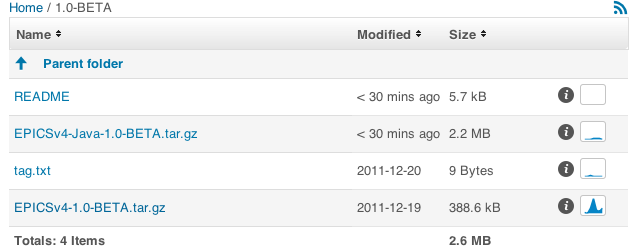
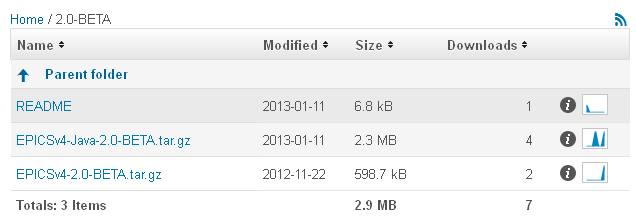
Brought getting_started, gettingStarte_20130118.html up-to-date with Beta 2. index.html now references C++ services.

diff --git a/mainPage/gettingStarted.html b/mainPage/gettingStarted.html
@@ -58,12 +58,15 @@ included.</p>
 
 <h2 class="nocount" id="status">Status of this Document</h2>
 
-<p>This is the 18-Jan-2013 version of the Getting Started with EPICS V4. This version adds examples of C++ services.
-This version is up to date with respect to the BETA 1.0 release, including the 1.0.1-BETA Java tar file, and also with development from
+<p>This is the 18-Jan-2013 version of the Getting Started with EPICS V4. This version adds examples of C++ services and
+in addition has been brought up-to-date with respect to the BETA 2.0 release
+ and reflects changes in the organization of the EPICS V4 modules prior to this release. This version is up-to-date with respect to the BETA 2.0 release and with development from
 the Mercurial tips.</p>
 
-<p>The next version should include: section after step-by-step like "going further"
-which points to existing documentation of the EPICS V4 core modules.
+<p> NOTE: Subsequent to the release of BETA 2.0, development on pvIOCCPP ceased and V3Channel will be moved to its own
+module, pvaSrv. </p>
+
+<p>The next version should include: new instructions updated for the move of V3Channel to pvaSrv.
 </p>
 
 <div id="toc">
@@ -110,11 +113,11 @@ go further than this Getting Started guide. </p>
   <th>Module</th><th>SourceForge Hg repo for Java</th><th>Java jar
   file</th><th>SourceForge Hg repo for C++</th>
   </tr>
-  <TR><TD>pvData</TD><TD><a href="http://epics-pvdata.hg.sourceforge.net/hgweb/epics-pvdata/pvDataJava/" >pvDataJava</a></TD><TD>pvData-1.0-SNAPSHOT.jar</TD><TD><a href="http://epics-pvdata.hg.sourceforge.net/hgweb/epics-pvdata/pvDataCPP/" >pvDataCPP</a></TD>
+  <TR><TD>pvData</TD><TD><a href="http://epics-pvdata.hg.sourceforge.net/hgweb/epics-pvdata/pvDataJava/" >pvDataJava</a></TD><TD>pvData-2.1-SNAPSHOT.jar</TD><TD><a href="http://epics-pvdata.hg.sourceforge.net/hgweb/epics-pvdata/pvDataCPP/" >pvDataCPP</a></TD>
  </TR>
-   <TR><TD>pvAccess</TD><TD><a href="http://epics-pvdata.hg.sourceforge.net/hgweb/epics-pvdata/pvAccessJava/" >pvAccessJava</a></TD><TD>pvAccess-1.0-SNAPSHOT.jar</TD><TD><a href="http://epics-pvdata.hg.sourceforge.net/hgweb/epics-pvdata/pvAccessCPP/" >pvAccessCPP</a></TD>
+   <TR><TD>pvAccess</TD><TD><a href="http://epics-pvdata.hg.sourceforge.net/hgweb/epics-pvdata/pvAccessJava/" >pvAccessJava</a></TD><TD>pvAccess-2.1-SNAPSHOT.jar</TD><TD><a href="http://epics-pvdata.hg.sourceforge.net/hgweb/epics-pvdata/pvAccessCPP/" >pvAccessCPP</a></TD>
  </TR>
-   <TR><TD>pvIOC</TD><TD><a href="http://epics-pvdata.hg.sourceforge.net/hgweb/epics-pvdata/pvIOCJava/" >pvIOCJava</a></TD><TD>pvIOC-1.0-SNAPSHOT.jar</TD><TD><a href="http://epics-pvdata.hg.sourceforge.net/hgweb/epics-pvdata/pvIOCCPP/" >pvIOCCPP</a></TD>
+   <TR><TD>pvIOC</TD><TD><a href="http://epics-pvdata.hg.sourceforge.net/hgweb/epics-pvdata/pvIOCJava/" >pvIOCJava</a></TD><TD>pvIOC-2.1-SNAPSHOT.jar</TD><TD><a href="http://epics-pvdata.hg.sourceforge.net/hgweb/epics-pvdata/pvIOCCPP/" >pvIOCCPP</a></TD>
  </TR>
 </table>
 
@@ -124,7 +127,7 @@ go further than this Getting Started guide. </p>
   interdependency into account.</p>
 
 <p><i>The version number and designation may change as versions are released. At the
-  time BETA 1.0 release, these were pvData-1.0-BETA.jar etc.</i></p>
+  time of BETA 2.0 release, these were pvData-2.0-BETA.jar etc.</i></p>
 
 <p>Since the development cycle (compile, build, etc) is significantly
 different for each language, and to match suitable language API description to
@@ -143,7 +146,7 @@ This is provided by <a
 >V3Channel</a>, currently part of pvIOCCPP, and implemented in C++.</p>
 
 <p>Alternatively EPICS V4 can link to EPICS V3 records using Channel Access. This is currently
-available in Java and 
+available in Java only and 
 in this case two more files, jca*.jar and caj*.jar, are necessary. There are a number 
 of modes of such interoperation. Firstly, an embedded Channel Access client inside the
 pvAccess server, allows the pvIOC to communicate with an EPICS V3 server, i.e. a
@@ -228,25 +231,20 @@ href="http://sourceforge.net/projects/epics-pvdata/files/">http://sourceforge.ne
 
 <li>Untar it
 <pre>
-% tar xvfz EPICSv4-Java-1.0.1-BETA.tar.gz
+% tar xvfz EPICSv4-Java-2.0-BETA.tar.gz
 </pre>
 You should see:
 <pre>
-% cd EPICSv4-Java-1.0.1-BETA
-% ls
-total 3200
-   0 drwxr-xr-x  12 greg  staff      408  8 Feb 11:08 ./
-   0 drwxr-xr-x   4 greg  staff      136  8 Feb 11:29 ../
-  16 -rw-r--r--   1 greg  staff     5715  8 Feb 11:08 README
-   0 drwxr-xr-x   6 greg  staff      204  8 Feb 11:08 common/
-   0 drwxr-xr-x  10 greg  staff      340  8 Feb 11:08 exampleJava/
- 496 -rw-r--r--   1 greg  staff   251087  7 Feb 19:21 pvAccess-1.0.1-BETA.jar
- 392 -rw-r--r--   1 greg  staff   197533  7 Feb 17:46 pvData-1.0.1-BETA.jar
-2056 -rw-r--r--   1 greg  staff  1049064  7 Feb 17:53 pvIOC-1.0.1-BETA.jar
-   0 drwxr-xr-x   5 greg  staff      170  8 Feb 11:08 pvIOCJava/
- 232 -rw-r--r--   1 greg  staff   114918  7 Feb 19:27 pvService-1.0.1-BETA.jar
-   0 drwxr-xr-x   3 greg  staff      102  8 Feb 11:08 pvServiceJava/
-   8 -rw-r--r--   1 greg  staff       11  8 Feb 11:08 tag.txt
+% cd EPICSv4-Java-2.0-BETA
+% ls -l
+total 1808   
+drwxr-xr-x. 4 greg  staff    4096 Jan 11 16:40 exampleJava
+-rw-r--r--. 1 greg  staff  377900 Jan 11 15:01 pvAccess-2.0-BETA.jar
+-rw-r--r--. 1 greg  staff  247291 Jan 11 14:58 pvData-2.0-BETA.jar
+-rw-r--r--. 1 greg  staff 1021199 Jan 11 15:04 pvIOC-2.0-BETA.jar
+drwxr-xr-x. 5 greg  staff      55 Jan 11 16:40 pvIOCJava
+-rw-r--r--. 1 greg  staff    6824 Jan 11 16:40 README
+-rw-r--r--. 1 greg  staff       9 Jan 11 16:40 tag.txt   
 </pre>
 </li>
 
@@ -257,7 +255,7 @@ name of the directory containing the xml/ directory of the pvIOC structures. eg,
 this example:
 
 <pre>
-export JAVAIOC=/Users/greg/Development/epicsV4/releasetest/EPICSv4-Java-1.0.1-BETA/pvIOCJava
+export JAVAIOC=/Users/greg/Development/epicsV4/releasetest/EPICSv4-Java-2.0-BETA/pvIOCJava
 </pre>
 </li>
 
@@ -266,13 +264,13 @@ export JAVAIOC=/Users/greg/Development/epicsV4/releasetest/EPICSv4-Java-1.0.1-BE
 
   <li>Set your location of pvCommon_setup.bash, e.g.:
   <pre>
-   source $HOME/Development/epicsV4/releasetest/EPICSv4-Java-1.0.1-BETA/common/source/pvCommon_setup.bash
+   source $HOME/Development/epicsV4/releasetest/EPICSv4-Java-2.0-BETA/common/source/pvCommon_setup.bash
   </pre>
   </li>
 
   <li>Set the root dir of the EPICS V4 stuff (ie, the directory created by the untar):
     <pre>
-   WORKSPACE=$HOME/Development/epicsV4/releasetest/EPICSv4-Java-1.0.1-BETA
+   WORKSPACE=$HOME/Development/epicsV4/releasetest/EPICSv4-Java-2.0-BETA
   </pre>
   </li>
 
@@ -283,10 +281,9 @@ export JAVAIOC=/Users/greg/Development/epicsV4/releasetest/EPICSv4-Java-1.0.1-BE
 
   <pre>
   CLASSPATH=${EXAMPLES}/target/classes
-  CLASSPATH=${CLASSPATH}:${WORKSPACE}/pvData-1.0.1-BETA.jar
-  CLASSPATH=${CLASSPATH}:${WORKSPACE}/pvIOC-1.0.1-BETA.jar
-  CLASSPATH=${CLASSPATH}:${WORKSPACE}/pvAccess-1.0.1-BETA.jar
-  CLASSPATH=${CLASSPATH}:${WORKSPACE}/pvService-1.0.1-BETA.jar
+  CLASSPATH=${CLASSPATH}:${WORKSPACE}/pvData-2.0-BETA.jar
+  CLASSPATH=${CLASSPATH}:${WORKSPACE}/pvIOC-2.0-BETA.jar
+  CLASSPATH=${CLASSPATH}:${WORKSPACE}/pvAccess-2.0-BETA.jar
   </pre>
   </li>
 </ol>
@@ -415,7 +412,6 @@ implementations, as above. The "common" repo is useful too, for setup files etc:
 % hg clone ssh://your_sourceforge_userid@epics-pvdata.hg.sourceforge.net/hgroot/epics-pvdata/pvDataJava
 % hg clone ssh://your_sourceforge_userid@epics-pvdata.hg.sourceforge.net/hgroot/epics-pvdata/pvAccessJava
 % hg clone ssh://your_sourceforge_userid@epics-pvdata.hg.sourceforge.net/hgroot/epics-pvdata/pvIOCJava
-% hg clone ssh://your_sourceforge_userid@epics-pvdata.hg.sourceforge.net/hgroot/epics-pvdata/pvServiceJava
 % hg clone ssh://your_sourceforge_userid@epics-pvdata.hg.sourceforge.net/hgroot/epics-pvdata/common
 </pre>
 
@@ -487,9 +483,6 @@ you probably knew that.]
 
 % cd ../pvIOCJava
 % mvn compile install -DJAVAIOC=$PWD -Dmaven.test.skip=true
-
-% cd ../pvServiceJava
-% mvn compile install 
 </pre>
 
 <p>The above 4 complete the build of the EPICS v4 core. To compile and install
@@ -512,13 +505,13 @@ in <code>~/.m2/</code>, you have the few you really need. Again, <strong>actual
 version tags, i.e. "1.0-SNAPSHOT" in the example below, will vary as EPICS V4 matures</strong>:</p>
 
 <pre>
-% find ~/.m2 -name "pv*SNAPSHOT.jar" -o -name "*caj*.jar" -o -name "*jca*.jar"
-/Users/greg/.m2/repository/epics/caj/1.1.8/caj-1.1.8.jar
-/Users/greg/.m2/repository/epics/jca/2.3.5/jca-2.3.5.jar
-/Users/greg/.m2/repository/epics/pvAccess/1.0-SNAPSHOT/pvAccess-1.0-SNAPSHOT.jar
-/Users/greg/.m2/repository/epics/pvData/1.0-SNAPSHOT/pvData-1.0-SNAPSHOT.jar
-/Users/greg/.m2/repository/epics/pvIOC/1.0-SNAPSHOT/pvIOC-1.0-SNAPSHOT.jar
-/Users/greg/.m2/repository/epics/pvService/1.0-SNAPSHOT/pvService-1.0-SNAPSHOT.jar
+% cd ~/.m2
+% find . -name "pv*SNAPSHOT.jar" -o -name "*caj*.jar" -o -name "*jca*.jar"
+./repository/epics/pvData/2.1-SNAPSHOT/pvData-2.1-SNAPSHOT.jar
+./repository/epics/jca/2.3.6/jca-2.3.6.jar
+./repository/epics/caj/1.1.10/caj-1.1.10.jar
+./repository/epics/pvAccess/2.1-SNAPSHOT/pvAccess-2.1-SNAPSHOT.jar
+./repository/epics/pvIOC/2.1-SNAPSHOT/pvIOC-2.1-SNAPSHOT.jar
 </pre>
 
 <p>Note that the results gave you not only jar files under <code>~/.m2/</code>, but the sources and
@@ -729,29 +722,6 @@ PVACCESS=${HOME}/Development/epicsV4/ev4hg/pvAccessCPP
 </ol>
  
 <p>This completes the C++ build of EPICS V4.</p>
-
-<!--
-<p>For Java client and server examples, at the time of writing, see the source code
-in the examplesJava module. You can find this on the epics-pvdata web site
-[<a href="#ev4examples-java">ev4examples-java</a>]. At the time of writing, examplesJava
-contains 2 examples, both of RPC style servers (that is, pass arguments to EPICS V4
-server, get data back dependent on the arguments).</p>
-
-<dl>
-  <dt>helloWorld</dt>
-  <dd>In particular, you may like to start with the,  <a
-href="http://epics-pvdata.hg.sourceforge.net/hgweb/epics-pvdata/exampleJava/file/576e59c105e9/src/helloWorld">
-helloWorld example service</a>. HelloWorld is composed of a server and a client. The
-  server is built on top of a EPICS V4 JavaIOC, which process a single EPICS V4
-  record which shows how to define a record for taking a single argument (a persons
-  name to whom to say hello). The service returns a string which greets
-  that person. The client prints the received greeting. Start with its <a
-  href="http://epics-pvdata.hg.sourceforge.net/hgweb/epics-pvdata/exampleJava/file/tip/src/helloWorld/HELLOWORLD_README.txt"
-  >HELLOWORLD_README.txt</a>. This demonstrates an EPICS V4 record whose value is subject to
-  a user argument.
-</dd>
-
--->
 
 <h4 id="cppexamples">C++ Examples</h4>
 <p>

diff --git a/mainPage/gettingStarted_20130118.html b/mainPage/gettingStarted_20130118.html
@@ -58,12 +58,15 @@ included.</p>
 
 <h2 class="nocount" id="status">Status of this Document</h2>
 
-<p>This is the 18-Jan-2013 version of the Getting Started with EPICS V4. This version adds examples of C++ services.
-This version is up to date with respect to the BETA 1.0 release, including the 1.0.1-BETA Java tar file, and also with development from
+<p>This is the 18-Jan-2013 version of the Getting Started with EPICS V4. This version adds examples of C++ services and
+in addition has been brought up-to-date with respect to the BETA 2.0 release
+ and reflects changes in the organization of the EPICS V4 modules prior to this release. This version is up-to-date with respect to the BETA 2.0 release and with development from
 the Mercurial tips.</p>
 
-<p>The next version should include: section after step-by-step like "going further"
-which points to existing documentation of the EPICS V4 core modules.
+<p> NOTE: Subsequent to the release of BETA 2.0, development on pvIOCCPP ceased and V3Channel will be moved to its own
+module, pvaSrv. </p>
+
+<p>The next version should include: new instructions updated for the move of V3Channel to pvaSrv.
 </p>
 
 <div id="toc">
@@ -110,11 +113,11 @@ go further than this Getting Started guide. </p>
   <th>Module</th><th>SourceForge Hg repo for Java</th><th>Java jar
   file</th><th>SourceForge Hg repo for C++</th>
   </tr>
-  <TR><TD>pvData</TD><TD><a href="http://epics-pvdata.hg.sourceforge.net/hgweb/epics-pvdata/pvDataJava/" >pvDataJava</a></TD><TD>pvData-1.0-SNAPSHOT.jar</TD><TD><a href="http://epics-pvdata.hg.sourceforge.net/hgweb/epics-pvdata/pvDataCPP/" >pvDataCPP</a></TD>
+  <TR><TD>pvData</TD><TD><a href="http://epics-pvdata.hg.sourceforge.net/hgweb/epics-pvdata/pvDataJava/" >pvDataJava</a></TD><TD>pvData-2.1-SNAPSHOT.jar</TD><TD><a href="http://epics-pvdata.hg.sourceforge.net/hgweb/epics-pvdata/pvDataCPP/" >pvDataCPP</a></TD>
  </TR>
-   <TR><TD>pvAccess</TD><TD><a href="http://epics-pvdata.hg.sourceforge.net/hgweb/epics-pvdata/pvAccessJava/" >pvAccessJava</a></TD><TD>pvAccess-1.0-SNAPSHOT.jar</TD><TD><a href="http://epics-pvdata.hg.sourceforge.net/hgweb/epics-pvdata/pvAccessCPP/" >pvAccessCPP</a></TD>
+   <TR><TD>pvAccess</TD><TD><a href="http://epics-pvdata.hg.sourceforge.net/hgweb/epics-pvdata/pvAccessJava/" >pvAccessJava</a></TD><TD>pvAccess-2.1-SNAPSHOT.jar</TD><TD><a href="http://epics-pvdata.hg.sourceforge.net/hgweb/epics-pvdata/pvAccessCPP/" >pvAccessCPP</a></TD>
  </TR>
-   <TR><TD>pvIOC</TD><TD><a href="http://epics-pvdata.hg.sourceforge.net/hgweb/epics-pvdata/pvIOCJava/" >pvIOCJava</a></TD><TD>pvIOC-1.0-SNAPSHOT.jar</TD><TD><a href="http://epics-pvdata.hg.sourceforge.net/hgweb/epics-pvdata/pvIOCCPP/" >pvIOCCPP</a></TD>
+   <TR><TD>pvIOC</TD><TD><a href="http://epics-pvdata.hg.sourceforge.net/hgweb/epics-pvdata/pvIOCJava/" >pvIOCJava</a></TD><TD>pvIOC-2.1-SNAPSHOT.jar</TD><TD><a href="http://epics-pvdata.hg.sourceforge.net/hgweb/epics-pvdata/pvIOCCPP/" >pvIOCCPP</a></TD>
  </TR>
 </table>
 
@@ -124,7 +127,7 @@ go further than this Getting Started guide. </p>
   interdependency into account.</p>
 
 <p><i>The version number and designation may change as versions are released. At the
-  time BETA 1.0 release, these were pvData-1.0-BETA.jar etc.</i></p>
+  time of BETA 2.0 release, these were pvData-2.0-BETA.jar etc.</i></p>
 
 <p>Since the development cycle (compile, build, etc) is significantly
 different for each language, and to match suitable language API description to
@@ -143,7 +146,7 @@ This is provided by <a
 >V3Channel</a>, currently part of pvIOCCPP, and implemented in C++.</p>
 
 <p>Alternatively EPICS V4 can link to EPICS V3 records using Channel Access. This is currently
-available in Java and 
+available in Java only and 
 in this case two more files, jca*.jar and caj*.jar, are necessary. There are a number 
 of modes of such interoperation. Firstly, an embedded Channel Access client inside the
 pvAccess server, allows the pvIOC to communicate with an EPICS V3 server, i.e. a
@@ -228,25 +231,20 @@ href="http://sourceforge.net/projects/epics-pvdata/files/">http://sourceforge.ne
 
 <li>Untar it
 <pre>
-% tar xvfz EPICSv4-Java-1.0.1-BETA.tar.gz
+% tar xvfz EPICSv4-Java-2.0-BETA.tar.gz
 </pre>
 You should see:
 <pre>
-% cd EPICSv4-Java-1.0.1-BETA
-% ls
-total 3200
-   0 drwxr-xr-x  12 greg  staff      408  8 Feb 11:08 ./
-   0 drwxr-xr-x   4 greg  staff      136  8 Feb 11:29 ../
-  16 -rw-r--r--   1 greg  staff     5715  8 Feb 11:08 README
-   0 drwxr-xr-x   6 greg  staff      204  8 Feb 11:08 common/
-   0 drwxr-xr-x  10 greg  staff      340  8 Feb 11:08 exampleJava/
- 496 -rw-r--r--   1 greg  staff   251087  7 Feb 19:21 pvAccess-1.0.1-BETA.jar
- 392 -rw-r--r--   1 greg  staff   197533  7 Feb 17:46 pvData-1.0.1-BETA.jar
-2056 -rw-r--r--   1 greg  staff  1049064  7 Feb 17:53 pvIOC-1.0.1-BETA.jar
-   0 drwxr-xr-x   5 greg  staff      170  8 Feb 11:08 pvIOCJava/
- 232 -rw-r--r--   1 greg  staff   114918  7 Feb 19:27 pvService-1.0.1-BETA.jar
-   0 drwxr-xr-x   3 greg  staff      102  8 Feb 11:08 pvServiceJava/
-   8 -rw-r--r--   1 greg  staff       11  8 Feb 11:08 tag.txt
+% cd EPICSv4-Java-2.0-BETA
+% ls -l
+total 1808   
+drwxr-xr-x. 4 greg  staff    4096 Jan 11 16:40 exampleJava
+-rw-r--r--. 1 greg  staff  377900 Jan 11 15:01 pvAccess-2.0-BETA.jar
+-rw-r--r--. 1 greg  staff  247291 Jan 11 14:58 pvData-2.0-BETA.jar
+-rw-r--r--. 1 greg  staff 1021199 Jan 11 15:04 pvIOC-2.0-BETA.jar
+drwxr-xr-x. 5 greg  staff      55 Jan 11 16:40 pvIOCJava
+-rw-r--r--. 1 greg  staff    6824 Jan 11 16:40 README
+-rw-r--r--. 1 greg  staff       9 Jan 11 16:40 tag.txt   
 </pre>
 </li>
 
@@ -257,7 +255,7 @@ name of the directory containing the xml/ directory of the pvIOC structures. eg,
 this example:
 
 <pre>
-export JAVAIOC=/Users/greg/Development/epicsV4/releasetest/EPICSv4-Java-1.0.1-BETA/pvIOCJava
+export JAVAIOC=/Users/greg/Development/epicsV4/releasetest/EPICSv4-Java-2.0-BETA/pvIOCJava
 </pre>
 </li>
 
@@ -266,13 +264,13 @@ export JAVAIOC=/Users/greg/Development/epicsV4/releasetest/EPICSv4-Java-1.0.1-BE
 
   <li>Set your location of pvCommon_setup.bash, e.g.:
   <pre>
-   source $HOME/Development/epicsV4/releasetest/EPICSv4-Java-1.0.1-BETA/common/source/pvCommon_setup.bash
+   source $HOME/Development/epicsV4/releasetest/EPICSv4-Java-2.0-BETA/common/source/pvCommon_setup.bash
   </pre>
   </li>
 
   <li>Set the root dir of the EPICS V4 stuff (ie, the directory created by the untar):
     <pre>
-   WORKSPACE=$HOME/Development/epicsV4/releasetest/EPICSv4-Java-1.0.1-BETA
+   WORKSPACE=$HOME/Development/epicsV4/releasetest/EPICSv4-Java-2.0-BETA
   </pre>
   </li>
 
@@ -283,10 +281,9 @@ export JAVAIOC=/Users/greg/Development/epicsV4/releasetest/EPICSv4-Java-1.0.1-BE
 
   <pre>
   CLASSPATH=${EXAMPLES}/target/classes
-  CLASSPATH=${CLASSPATH}:${WORKSPACE}/pvData-1.0.1-BETA.jar
-  CLASSPATH=${CLASSPATH}:${WORKSPACE}/pvIOC-1.0.1-BETA.jar
-  CLASSPATH=${CLASSPATH}:${WORKSPACE}/pvAccess-1.0.1-BETA.jar
-  CLASSPATH=${CLASSPATH}:${WORKSPACE}/pvService-1.0.1-BETA.jar
+  CLASSPATH=${CLASSPATH}:${WORKSPACE}/pvData-2.0-BETA.jar
+  CLASSPATH=${CLASSPATH}:${WORKSPACE}/pvIOC-2.0-BETA.jar
+  CLASSPATH=${CLASSPATH}:${WORKSPACE}/pvAccess-2.0-BETA.jar
   </pre>
   </li>
 </ol>
@@ -415,7 +412,6 @@ implementations, as above. The "common" repo is useful too, for setup files etc:
 % hg clone ssh://your_sourceforge_userid@epics-pvdata.hg.sourceforge.net/hgroot/epics-pvdata/pvDataJava
 % hg clone ssh://your_sourceforge_userid@epics-pvdata.hg.sourceforge.net/hgroot/epics-pvdata/pvAccessJava
 % hg clone ssh://your_sourceforge_userid@epics-pvdata.hg.sourceforge.net/hgroot/epics-pvdata/pvIOCJava
-% hg clone ssh://your_sourceforge_userid@epics-pvdata.hg.sourceforge.net/hgroot/epics-pvdata/pvServiceJava
 % hg clone ssh://your_sourceforge_userid@epics-pvdata.hg.sourceforge.net/hgroot/epics-pvdata/common
 </pre>
 
@@ -487,9 +483,6 @@ you probably knew that.]
 
 % cd ../pvIOCJava
 % mvn compile install -DJAVAIOC=$PWD -Dmaven.test.skip=true
-
-% cd ../pvServiceJava
-% mvn compile install 
 </pre>
 
 <p>The above 4 complete the build of the EPICS v4 core. To compile and install
@@ -512,13 +505,13 @@ in <code>~/.m2/</code>, you have the few you really need. Again, <strong>actual
 version tags, i.e. "1.0-SNAPSHOT" in the example below, will vary as EPICS V4 matures</strong>:</p>
 
 <pre>
-% find ~/.m2 -name "pv*SNAPSHOT.jar" -o -name "*caj*.jar" -o -name "*jca*.jar"
-/Users/greg/.m2/repository/epics/caj/1.1.8/caj-1.1.8.jar
-/Users/greg/.m2/repository/epics/jca/2.3.5/jca-2.3.5.jar
-/Users/greg/.m2/repository/epics/pvAccess/1.0-SNAPSHOT/pvAccess-1.0-SNAPSHOT.jar
-/Users/greg/.m2/repository/epics/pvData/1.0-SNAPSHOT/pvData-1.0-SNAPSHOT.jar
-/Users/greg/.m2/repository/epics/pvIOC/1.0-SNAPSHOT/pvIOC-1.0-SNAPSHOT.jar
-/Users/greg/.m2/repository/epics/pvService/1.0-SNAPSHOT/pvService-1.0-SNAPSHOT.jar
+% cd ~/.m2
+% find . -name "pv*SNAPSHOT.jar" -o -name "*caj*.jar" -o -name "*jca*.jar"
+./repository/epics/pvData/2.1-SNAPSHOT/pvData-2.1-SNAPSHOT.jar
+./repository/epics/jca/2.3.6/jca-2.3.6.jar
+./repository/epics/caj/1.1.10/caj-1.1.10.jar
+./repository/epics/pvAccess/2.1-SNAPSHOT/pvAccess-2.1-SNAPSHOT.jar
+./repository/epics/pvIOC/2.1-SNAPSHOT/pvIOC-2.1-SNAPSHOT.jar
 </pre>
 
 <p>Note that the results gave you not only jar files under <code>~/.m2/</code>, but the sources and
@@ -729,29 +722,6 @@ PVACCESS=${HOME}/Development/epicsV4/ev4hg/pvAccessCPP
 </ol>
  
 <p>This completes the C++ build of EPICS V4.</p>
-
-<!--
-<p>For Java client and server examples, at the time of writing, see the source code
-in the examplesJava module. You can find this on the epics-pvdata web site
-[<a href="#ev4examples-java">ev4examples-java</a>]. At the time of writing, examplesJava
-contains 2 examples, both of RPC style servers (that is, pass arguments to EPICS V4
-server, get data back dependent on the arguments).</p>
-
-<dl>
-  <dt>helloWorld</dt>
-  <dd>In particular, you may like to start with the,  <a
-href="http://epics-pvdata.hg.sourceforge.net/hgweb/epics-pvdata/exampleJava/file/576e59c105e9/src/helloWorld">
-helloWorld example service</a>. HelloWorld is composed of a server and a client. The
-  server is built on top of a EPICS V4 JavaIOC, which process a single EPICS V4
-  record which shows how to define a record for taking a single argument (a persons
-  name to whom to say hello). The service returns a string which greets
-  that person. The client prints the received greeting. Start with its <a
-  href="http://epics-pvdata.hg.sourceforge.net/hgweb/epics-pvdata/exampleJava/file/tip/src/helloWorld/HELLOWORLD_README.txt"
-  >HELLOWORLD_README.txt</a>. This demonstrates an EPICS V4 record whose value is subject to
-  a user argument.
-</dd>
-
--->
 
 <h4 id="cppexamples">C++ Examples</h4>
 <p>
